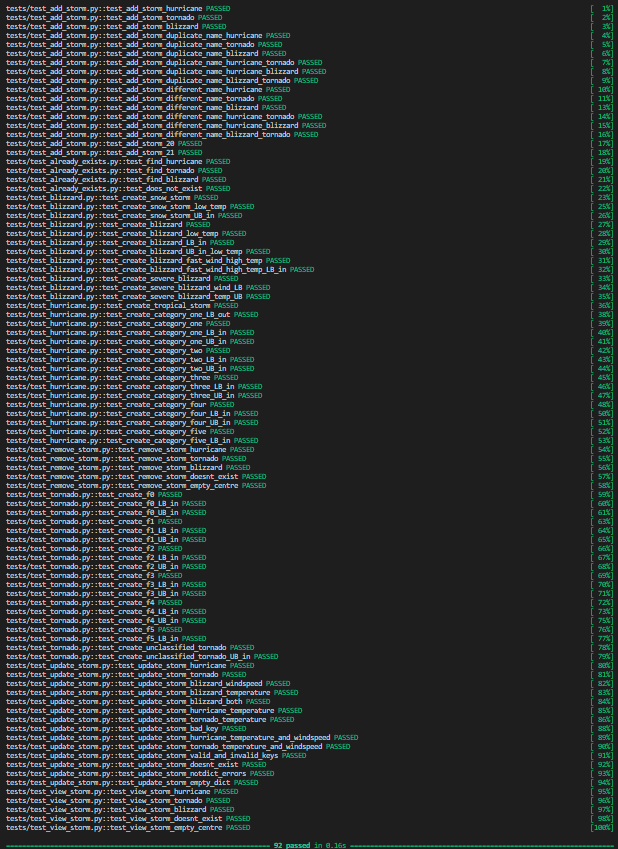
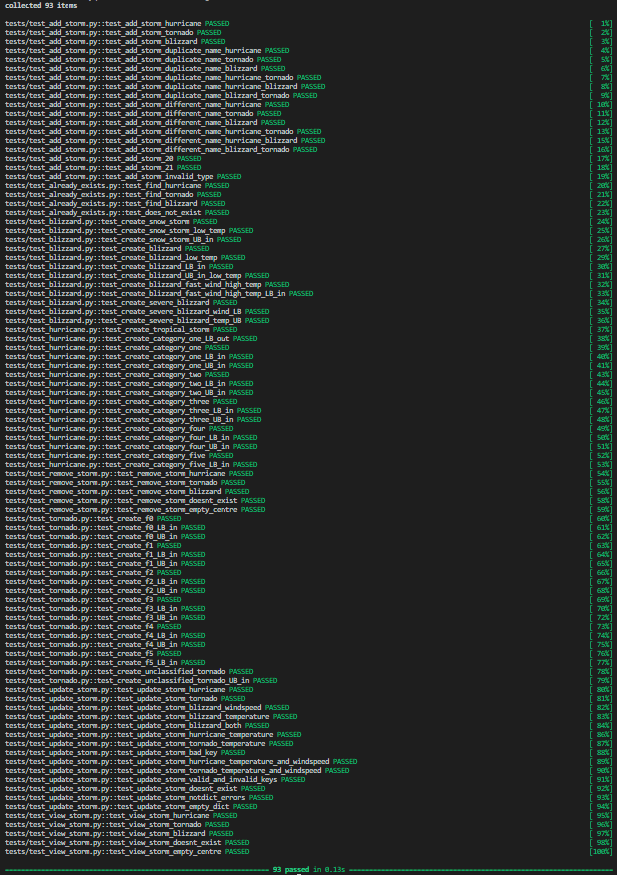
add extra test

Changed region(s): [[0.0, 0.0, 1.0, 1.0]]

diff --git a/tests/test_add_storm.py b/tests/test_add_storm.py
@@ -1,4 +1,5 @@
 import pytest
+from Storm import Storm
 from blizzard import Blizzard
 from hurricane import Hurricane
 from tornado import Tornado
@@ -71,3 +72,16 @@ def test_add_storm_21(storm_centre):
     for i in range(20):
         assert storm_centre.add_storm(Hurricane(str(i), 100)) == True
     assert storm_centre.add_storm(Hurricane("21", 100)) == False
+
+class Cyclone (Storm):
+    def __init__(self, name, wind_speed):
+        super().__init__(name, wind_speed)
+        
+    def calculate_classification(self) -> str: # type hint
+        return "Tropical"
+
+    def get_advice(self) -> str: #type hint
+        return "RUN"
+    
+def test_add_storm_invalid_type(storm_centre):
+    assert storm_centre.add_storm(Cyclone("cyclone", 30)) == False

diff --git a/report.md b/report.md
@@ -228,7 +228,24 @@ def __init__(self, name, wind_speed):
 ```
 ![image](/screenshots/test_add_storm_duplicate_name_different_type_FIX.png)
 
-I noticed another issue while debugging this. The type check on add_storm always returns true. It wouldn't have been caught in a unit test, as there are only 3 children of Storm and they are all valid (and Storm is abstract so cannot be created alone). I have fixed it below.
+### Fail 2
+![image](/screenshots/test_add_storm_invalid.png)
+```python
+class Cyclone (Storm):
+    def __init__(self, name, wind_speed):
+        super().__init__(name, wind_speed)
+        
+    def calculate_classification(self) -> str: # type hint
+        return "Tropical"
+
+    def get_advice(self) -> str: #type hint
+        return "RUN"
+    
+def test_add_storm_invalid_type(storm_centre):
+    assert storm_centre.add_storm(Cyclone("cyclone", 30)) == False
+```
+Issue: Storms which are not a Blizzard, Tornado or Hurricane can be added
+Fix: Fix condition
 ```python
 def add_storm(self, storm: Storm) -> bool:
     if (len(self.storm_list) <= 20
@@ -238,9 +255,9 @@ def add_storm(self, storm: Storm) -> bool:
         return True
     return False
 ```
-All the existing tests passed after this change.
+![image](/screenshots/test_add_storm_invalid_FIX.png)
 
-### Fail 2
+### Fail 3
 ![image](/screenshots/test_add_storm_21.png)
 ```python
 def test_add_storm_21(storm_centre):